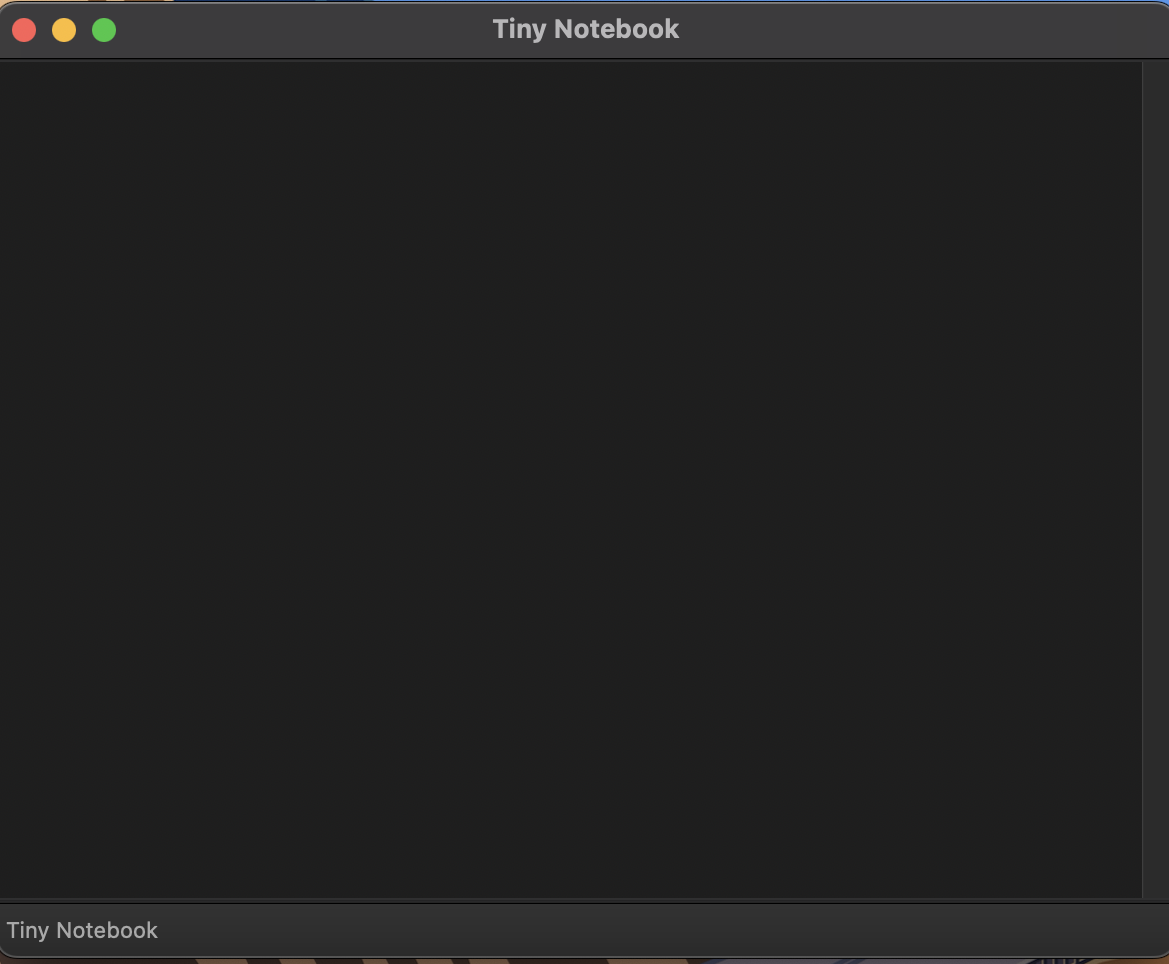
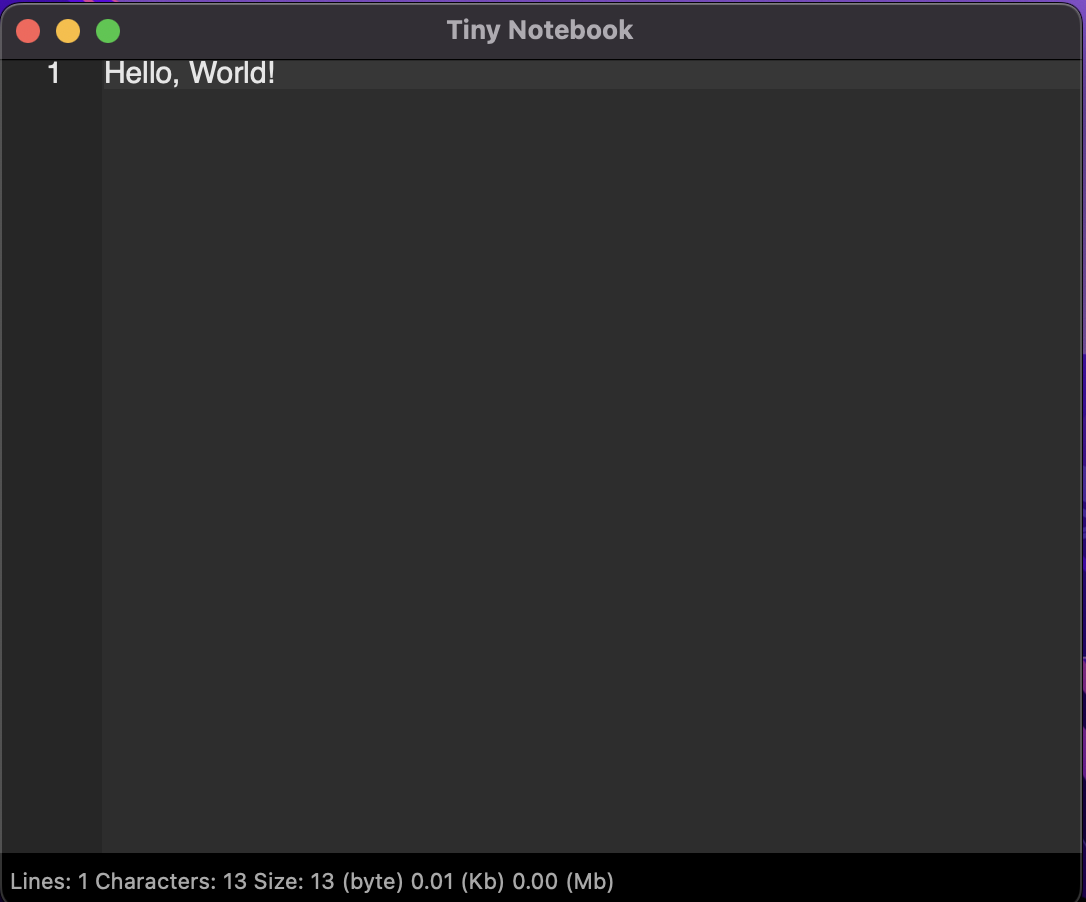
.

Changed region(s): [[0.0, 0.0, 1.0, 1.0]]

diff --git a/README.md b/README.md
@@ -3,6 +3,8 @@
 The minimal notebook for macOS, nothing fancy at all.
 You can open a file and edit the text, that's it.
 
+Lines, bytes and characters are visible in the statusbar.
+
 <img src="img/screenshot.png">
 
 
